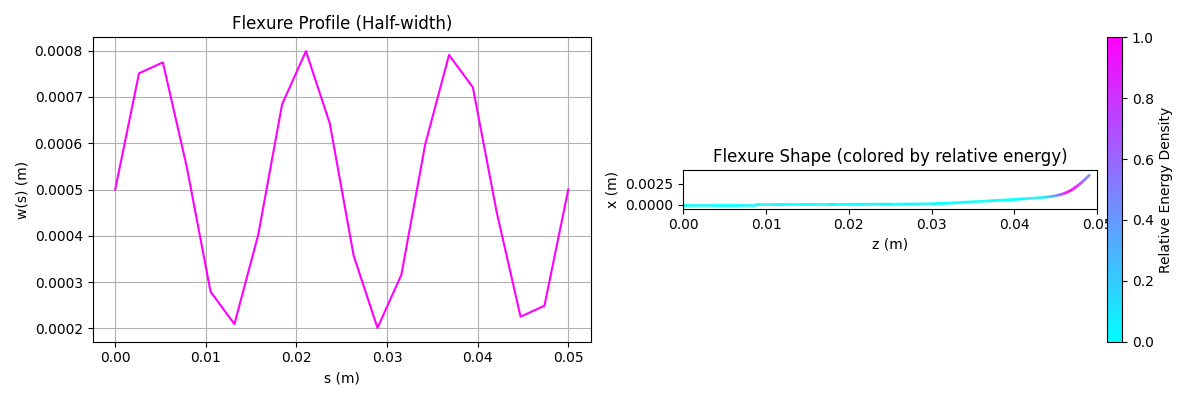
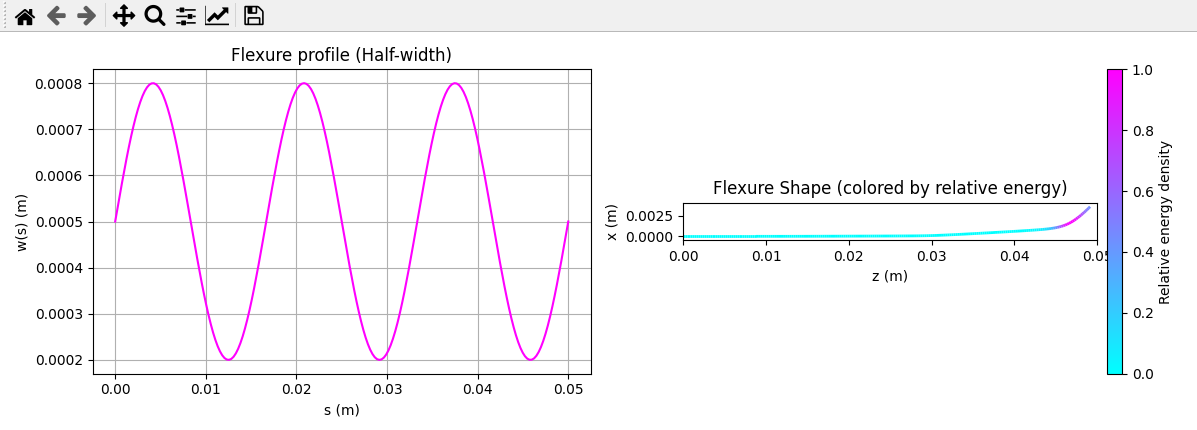
refactor bending functions for simplicity

Changed region(s): [[0.0, 0.0, 1.0, 0.96], [0.0309, 0.69, 0.0927, 0.75]]

diff --git a/functions_bending_schreyer_adaptive89.py b/functions_bending_schreyer_adaptive89.py
@@ -656,6 +656,134 @@ def integrate_xz(t, s):
 # Return S (the places along the fiber for which the bending angle is determined), F (list of vectors [M,theta,F2] where theta encodes the geometry of the bending, and Es is the errors
 # Bending calculation for a zero moment zero theta initial flexure with "shape" Isamples
 # grid: locations along the fiber the moment is sampled, Isamples: samples of the moment for bending along the fiber (same length as grid), order: not used, E: modulus of the material, Fsin: force coefficent for the sin term in bending, Fcos: boolean determining if a side force is present, theta0: intended bending angle, tol: tolerance for shooting
+
+
+#Two refactored bending functions, one sets the side force, the oter sets the initial moment.
+def bend_theta_with_m0(grid, hspline, thickness = 1, E=1, Fweight = mpmathify(1), Fside=mpmathify(0), theta0=1, tol=0.001,  use89 = False):
+    bend = mp_RKF45_adaptive
+    if use89:
+        bend = mp_RKF89_adaptive
+    min_exponent = -12000
+
+    onesmatrix = mp.matrix([1] * len(grid))
+
+    #Use the spline of the geometry to be compatible with RK intermediate sampling. Assume a rectangular cross section although other cross sections are also trivial.
+    IS = hspline
+    def I_spline(x):
+        #print(IS(x))
+        return (IS(x)*2)**3 * thickness /12
+    
+    F1 = Fweight
+    F2 = mpmathify(Side)
+    def dM_ds(t, Fco):
+        return F1 * mp.sin(t) + Fco * mp.cos(t)
+
+
+    def dt_ds(s, M):
+
+        return M / E / I_spline(s)
+
+    def df_ds(s, f):
+
+        return mp.matrix([dM_ds(f[1], f[2]), dt_ds(s, f[0]), mpmathify(0)])
+
+    f0 = None
+    # Anytime the cosine term is not negligible (a side force is present)
+
+    s0 = grid[0]
+
+    #Set the initial moment, or sideforce to a very small number, then the system is approximately linear and we can directly scale the initial condition to reach the desired bending angle.
+    f0 = mp.matrix([mpmathify("1E" +  str(min_exponent)), mpmathify(0), Fside])
+    S, F, Es = bend(
+        f0, s0, grid[len(grid) - 1], df_ds, tol, grid[1] - grid[0]
+    )
+    f0 = mp.matrix(
+        [mpmathify("1E" + str(min_exponent)) * theta0 / F[len(F) - 1][1], mpmathify(0), Fside]
+    )  # mpmathify()/F[len(F) - 1][1]
+    if theta0 > 0.1:
+        f0[0] = f0[0] /theta0 * 0.1
+
+    #Define a function compatible with the default root finding. Use anderson as its fast and has convergence guarentee of regula falsi method
+    def shot_function(x):
+        ic = [0,0,Fside]
+        ic[0] = x
+        S, F, Es = bend(
+        mp.matrix(ic), s0, grid[len(grid) - 1], df_ds, tol, grid[1] - grid[0]
+        )
+        return F[-1][1] - theta0
+    print(f0[0], "IC, M(0)")
+    f0[0] = mp.findroot(shot_function, (f0[0]/64, f0[0] * mpmathify(64)), solver="anderson", tol=tol, verbose=True, verify=False)
+
+    S, F, Es = bend(
+        f0, s0, grid[len(grid) - 1], df_ds, tol, grid[1] - grid[0]
+    )
+    print(f0, "IC!")
+    return S, F, Es
+
+def bend_samples_with_Fside(
+    grid, hspline, order=4, E=1, thickness=1, Fweight=mpmathify(1), M0=mpmathify(0), theta0=1, tol=0.001, use89=False
+):
+    bend = mp_RKF45_adaptive
+    if use89:
+        bend = mp_RKF89_adaptive
+    min_exponent = -12000
+    # Useful for shorthand calculation since we dont have total numpy freedom with mpmath library
+    onesmatrix = mp.matrix([1] * len(grid))
+
+    #Use the spline of the geometry to be compatible with RK intermediate sampling. Assume a rectangular cross section although other cross sections are also trivial.
+    IS = hspline
+    def I_spline(x):
+        #print(IS(x))
+        return (IS(x)*2)**3 * thickness /12
+    F1 = Fweight
+    M0 = mpmathify(M0)
+
+
+
+    def dM_ds(t, Fco):
+        return F1 * mp.sin(t) + Fco * mp.cos(t)
+
+
+    def dt_ds(s, M):
+
+        return M / E / I_spline(s)
+
+    def df_ds(s, f):
+
+        return mp.matrix([dM_ds(f[1], f[2]), dt_ds(s, f[0]), mpmathify(0)])
+
+    f0 = None
+    # Anytime the cosine term is not negligible (a side force is present)
+
+    s0 = grid[0]
+
+    f0 = mp.matrix([M0, mpmathify(0),mpmathify("1E" + str(min_exponent))])
+    S, F, Es = bend(
+        f0, s0, grid[len(grid) - 1], df_ds, tol, grid[1] - grid[0]
+    )
+    f0 = mp.matrix(
+        [M0, mpmathify(0), mpmathify("1E" + str(min_exponent)) * theta0 / F[len(F) - 1][1]]
+    )  # mpmathify()/F[len(F) - 1][1]
+    if theta0 > 0.1:
+        f0[2] = f0[2] /theta0 * 0.1
+    def shot_function(x):
+        ic = [0,0,0]
+        ic[2] = x
+        S, F, Es = bend(
+        mp.matrix(ic), s0, grid[len(grid) - 1], df_ds, tol, grid[1] - grid[0]
+        )
+        print(F[-1][1])
+        return F[-1][1] - theta0
+    print(f0[2], "IC, Fs")
+    f0[2] = mp.findroot(shot_function, (f0[2]/64, f0[2] * mpmathify(64)), solver="anderson", tol=tol, verbose=True, verify=False)
+
+    S, F, Es = bend(
+        f0, s0, grid[len(grid) - 1], df_ds, tol, grid[1] - grid[0]
+    )
+    print(f0, "IC!")
+    return S, F, Es
+
+# Bending calculation generalized for a moment M0 or a side force Fcos
 def bend_samples(
     grid, hspline, order=4, E=1, Fsin=mpmathify(0), Fcos=False, M0 = None, theta0=1, tol=0.001, T = 1, use89 = False
 ):

diff --git a/example_script.py b/example_script.py
@@ -8,7 +8,7 @@ from matplotlib.collections import LineCollection
 from matplotlib.colors import Normalize
 from scipy.interpolate import make_interp_spline
 
-from functions_bending_schreyer_adaptive89 import bend_samples, integrate_xz
+from functions_bending_schreyer_adaptive89 import bend_samples_with_Fside, integrate_xz
 
 # ---- Parameters ----
 L = 0.05               # Length (m)
@@ -23,7 +23,7 @@ tol = 1e-5             # Adaptive RK tolerance
 n_points = 200         # Sampling resolution
 
 # ---- Geometry spline: constant + sinusoidal half-width ----
-s_profile = np.linspace(0, L, 20)
+s_profile = np.linspace(0, L, 200)
 w_profile = w0 + amp * np.sin(6 * np.pi * s_profile / L)
 # ---- Make a spline to feed the solver from the samples
 hspline = make_interp_spline(s_profile, w_profile, bc_type="natural")
@@ -33,15 +33,15 @@ grid = mp.matrix(np.linspace(0, L, n_points))
 
 # ---- Run bend_samples using adaptive RKF89 ----
 Fw = mass * gravity
-S, F, Es = bend_samples(
+S, F, Es = bend_samples_with_Fside(
     grid=grid,
     hspline=hspline,
     E=E,
-    Fsin=mp.mpf(Fw),
-    Fcos=True,                # Use sideforce shooting mode
+    Fweight=mp.mpf(Fw),
+    M0 = 0,                # Use sideforce shooting mode
     theta0=theta0,
     tol=mp.mpf(tol),
-    T=T
+    thickness= mp.mpf(T)
 )
 
 # ---- Extract results ----
